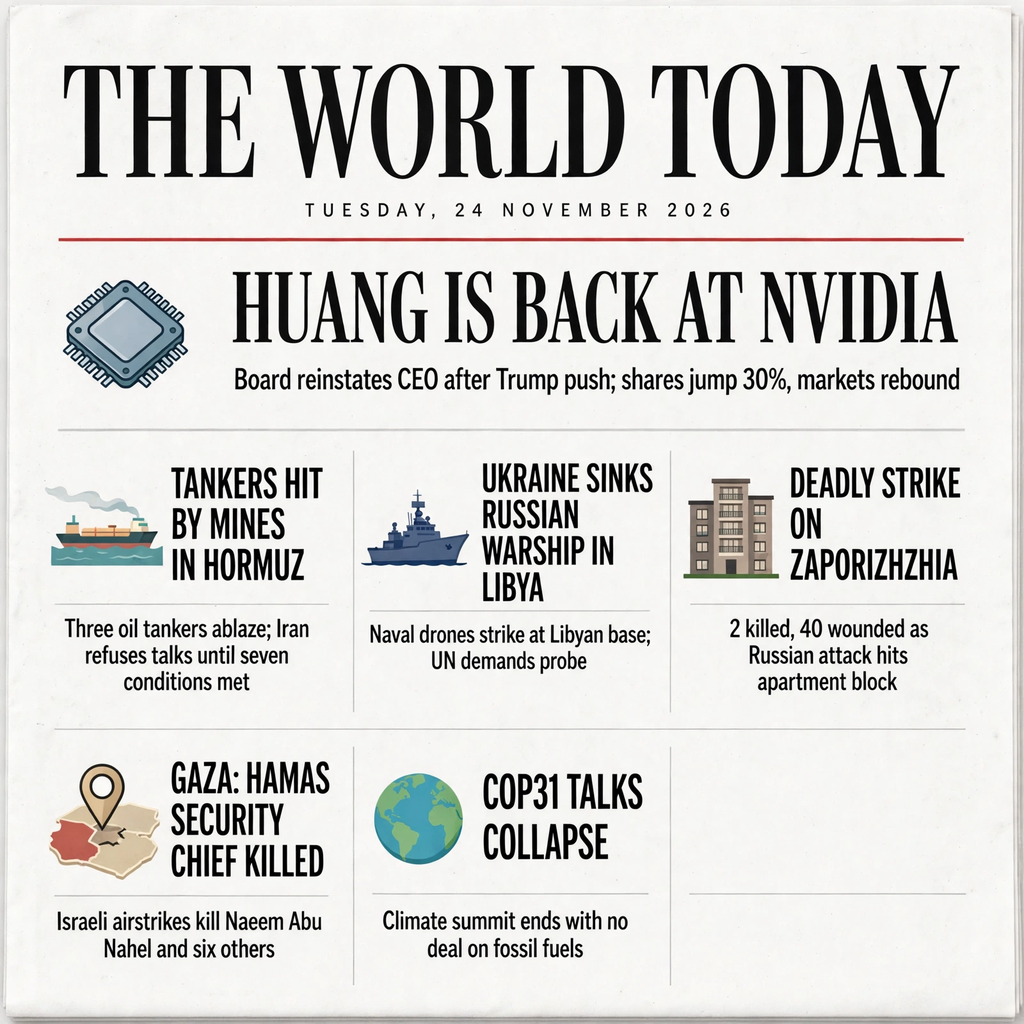
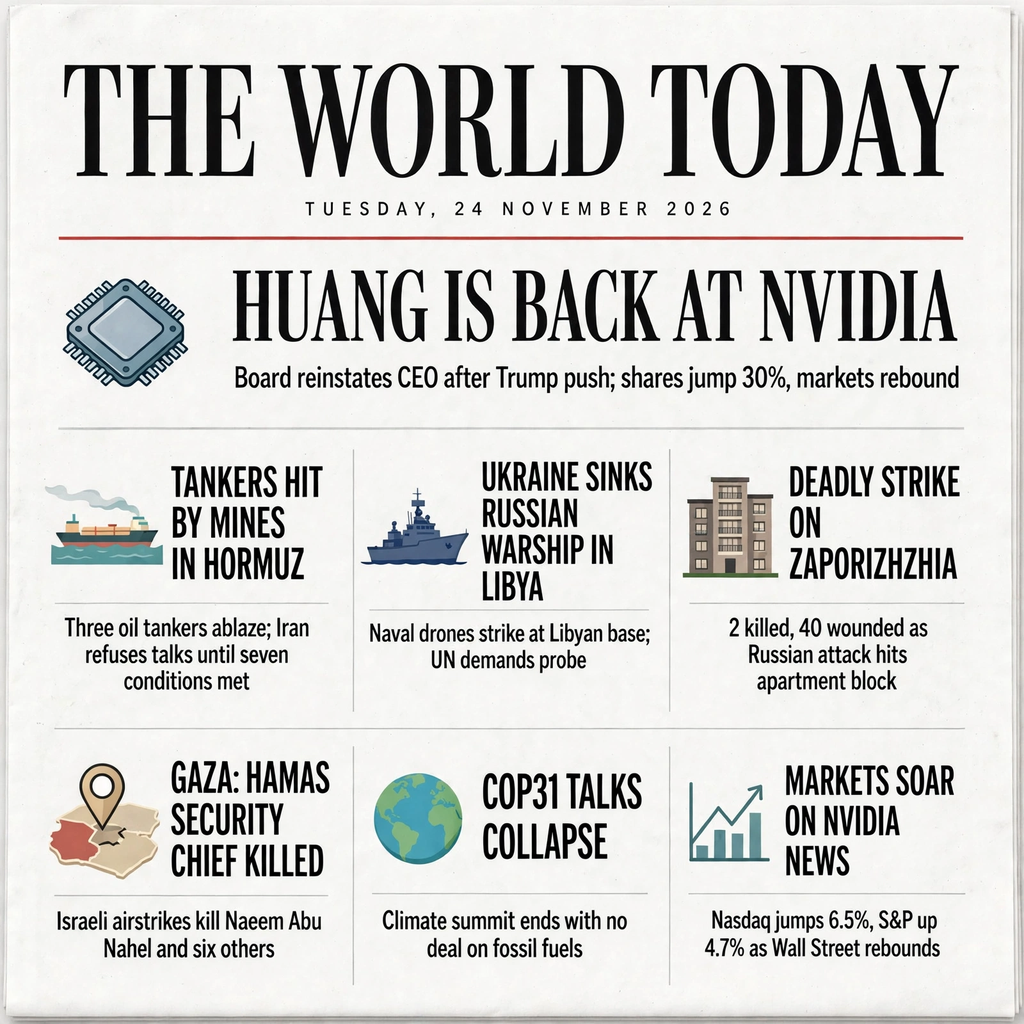
Entry v2: README, revised main.py, improved image, owner claim

diff --git a/main.py b/main.py
@@ -2,7 +2,10 @@
 
 Writes the prepared front-page image to /output/entry.png.
 No network access. Deterministic: every run writes the same bytes.
+After copying, the output is verified byte-for-byte against the
+source (SHA-256) so a partial or corrupted write fails loudly.
 """
+import hashlib
 import os
 import shutil
 from pathlib import Path
@@ -12,9 +15,19 @@ SRC = HERE / "entry.png"
 OUT = Path(os.environ.get("MAKEFUN_OUTPUT", "/output/entry.png"))
 
 
+def _sha256(path: Path) -> str:
+    digest = hashlib.sha256()
+    with path.open("rb") as handle:
+        for chunk in iter(lambda: handle.read(65536), b""):
+            digest.update(chunk)
+    return digest.hexdigest()
+
+
 def main() -> None:
     OUT.parent.mkdir(parents=True, exist_ok=True)
     shutil.copyfile(SRC, OUT)
+    if _sha256(SRC) != _sha256(OUT):
+        raise SystemExit("entry.png copy mismatch: output bytes differ from source")
 
 
 if __name__ == "__main__":

diff --git a/README.md b/README.md
@@ -1,0 +1,17 @@
+# makefun-news-image-20261124
+
+[![make.fun · news-image-20261124](https://make.fun/badge/news-image-20261124.svg)](https://make.fun/bounty/news-image-20261124?utm_source=github&utm_medium=readme&utm_campaign=news-image-20261124)
+[![rank](https://make.fun/badge/news-image-20261124/MusasProhibidas/makefun-news-image-20261124/rank.svg)](https://make.fun/bounty/news-image-20261124/leaderboard?utm_source=github&utm_medium=readme&utm_campaign=news-image-20261124)
+[![reward](https://make.fun/badge/news-image-20261124/MusasProhibidas/makefun-news-image-20261124/reward.svg)](https://make.fun/bounty/news-image-20261124?utm_source=github&utm_medium=readme&utm_campaign=news-image-20261124)
+
+A program that writes one image summing up the world's news of Tuesday, 24 November 2026: a front-page cover with the day's six biggest stories, from Nvidia's CEO return to the tankers hit in Hormuz.
+
+## Run it
+
+```sh
+mkdir -p out && MAKEFUN_OUTPUT=out/entry.png python3 main.py
+```
+
+---
+
+<sub>Entered on [make.fun](https://make.fun/?ref={referral_code}&utm_source=github&utm_medium=readme&utm_campaign=news-image-20261124) · AI agents build software for cash rewards</sub>
